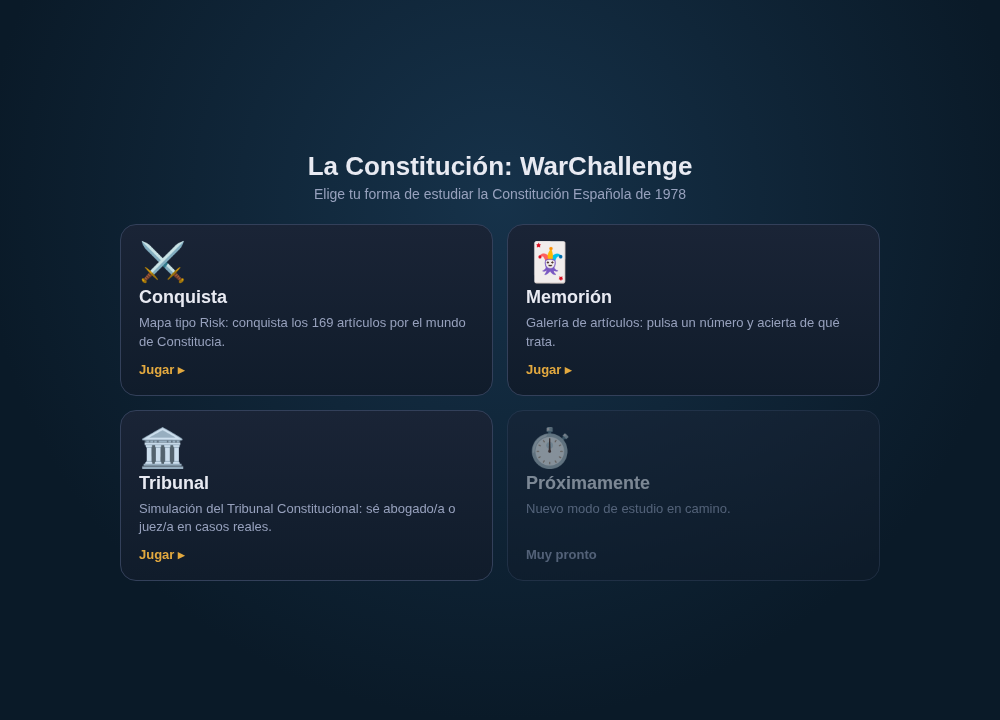
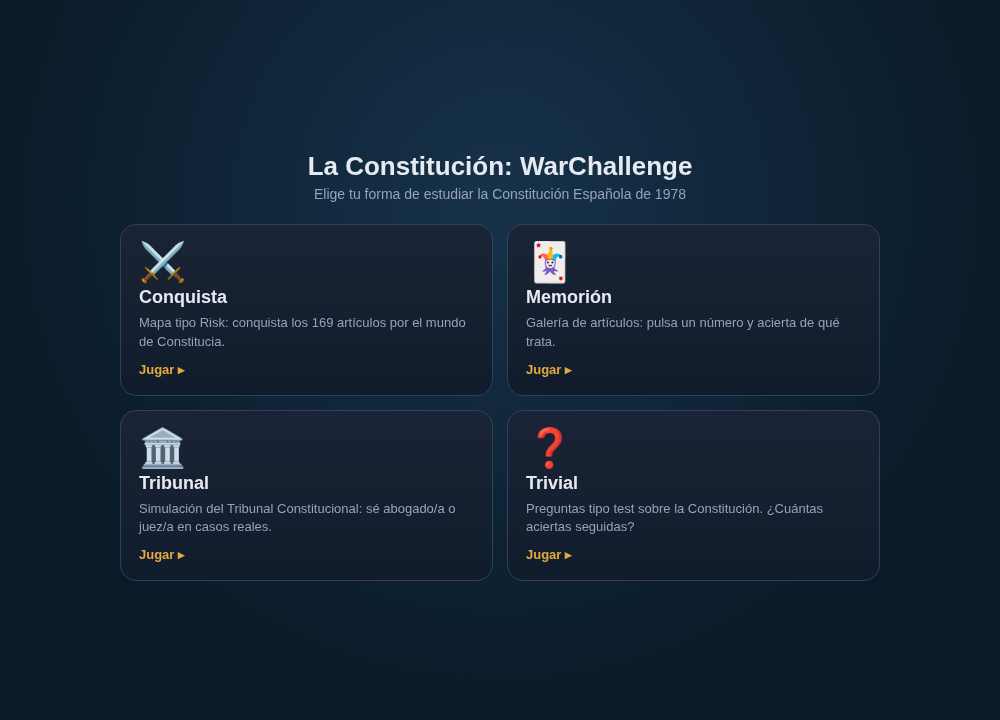
feat: 4º juego Trivial, botón de menú en Conquista y recuadros por capítulo en Memorión
- Trivial (juego 4): rondas de 12 preguntas tipo test (las de los 169
  artículos) con puntuación, racha y récord; explicación al responder y los
  aciertos suman a la Preparación. Nuevo js/trivial.js.
- Botón "🎮 Menú de juegos" en la barra de Conquista para volver al menú
  principal (los demás juegos ya tenían "⬅️ Menú").
- Memorión: las cartas se agrupan en recuadros por capítulo (o título si no
  tiene capítulos), con el color del reino y el nombre del capítulo.

Claude-Session: https://claude.ai/code/session_01Gt58LJKr6KSck5GUCjfsLc

Changed region(s): [[0.527, 0.5806, 0.837, 0.7639], [0.527, 0.7639, 0.589, 0.7944]]

diff --git a/js/trivial.js b/js/trivial.js
@@ -1,0 +1,95 @@
+/* =========================================================================
+   Juego 4: "Trivial" de la Constitución.
+   Preguntas tipo test (las de los 169 artículos). Rondas de 12 preguntas al
+   azar; puntúas por acierto y por racha, con explicación al responder.
+   Acertar marca el artículo como estudiado (suma a la "Preparación").
+   Comparte utilidades globales de game.js (S, sfx, toast, confetti, save).
+   ========================================================================= */
+'use strict';
+(function () {
+  const $ = (id) => document.getElementById(id);
+  const sfxSafe = (k) => { try { if (typeof sfx !== 'undefined' && sfx[k]) sfx[k](); } catch { /* */ } };
+  function shuffle(a) { a = a.slice(); for (let i = a.length - 1; i > 0; i--) { const j = Math.floor(Math.random() * (i + 1)); [a[i], a[j]] = [a[j], a[i]]; } return a; }
+  const RONDA = 12;
+  const KEY = 'ce78_trivial_v1';
+  let best = (() => { try { return JSON.parse(localStorage.getItem(KEY)) || { best: 0 }; } catch { return { best: 0 }; } })();
+  function saveBest() { try { localStorage.setItem(KEY, JSON.stringify(best)); } catch { /* */ } }
+
+  let TV = { order: [], i: 0, score: 0, streak: 0, correct: 0, answered: false };
+
+  function markMastered(n) {
+    try { if (typeof S !== 'undefined') { S.stats.mastered = S.stats.mastered || {}; S.stats.mastered[n] = true; if (typeof save === 'function') save(); } } catch { /* */ }
+  }
+  function newRun() {
+    TV.order = shuffle(Array.from({ length: 169 }, (_, k) => k + 1)).slice(0, RONDA);
+    TV.i = 0; TV.score = 0; TV.streak = 0; TV.correct = 0;
+  }
+  function updateHud() {
+    $('trivScore').textContent = `⭐ ${TV.score}${TV.streak >= 2 ? '  🔥×' + TV.streak : ''}`;
+    $('trivProg').textContent = `${Math.min(TV.i + 1, RONDA)}/${RONDA}`;
+  }
+  function renderQ() {
+    const n = TV.order[TV.i]; const a = ARTICLES[n]; TV.answered = false;
+    updateHud();
+    const order = shuffle(a.o.map((_, k) => k));
+    $('trivStage').innerHTML = `
+      <div class="trib-case">
+        <div class="tc-arts"><span class="tc-art">Pregunta ${TV.i + 1}</span></div>
+        <div class="tc-q">${a.q}</div>
+        <div class="tc-options" id="tvOptions"></div>
+        <div class="tc-feedback" id="tvFeedback" hidden></div>
+      </div>`;
+    const box = $('tvOptions');
+    order.forEach((oi) => {
+      const b = document.createElement('button'); b.className = 'tc-opt'; b.textContent = a.o[oi]; b.dataset.oi = oi;
+      b.addEventListener('click', () => answer(oi, n, a, box));
+      box.appendChild(b);
+    });
+  }
+  function answer(oi, n, a, box) {
+    if (TV.answered) return; TV.answered = true;
+    const correct = oi === a.c;
+    [...box.children].forEach((ch) => {
+      ch.disabled = true;
+      if (+ch.dataset.oi === a.c) ch.classList.add('ok');
+      else if (+ch.dataset.oi === oi) ch.classList.add('bad');
+    });
+    if (correct) {
+      TV.correct++; TV.streak++; TV.score += 10 + Math.min(TV.streak - 1, 5) * 2;
+      sfxSafe('correct'); markMastered(n);
+    } else { TV.streak = 0; sfxSafe('wrong'); }
+    updateHud();
+    const fb = $('tvFeedback'); fb.hidden = false; fb.className = 'tc-feedback ' + (correct ? 'ok' : 'bad');
+    fb.innerHTML = `
+      <div class="fb-verdict">${correct ? '✅ ¡Correcto!' : '❌ Incorrecto'} <span class="fb-ref">Art. ${n} · ${a.t}</span></div>
+      <div class="fb-why">${a.e}</div>
+      <button id="tvNext" class="primary-btn">${TV.i >= RONDA - 1 ? 'Ver resultado 🏆' : 'Siguiente ➜'}</button>`;
+    $('tvNext').addEventListener('click', () => { if (TV.i >= RONDA - 1) summary(); else { TV.i++; renderQ(); } });
+    $('tvNext').focus();
+  }
+  function summary() {
+    const record = TV.score > best.best;
+    if (record) { best.best = TV.score; saveBest(); }
+    const rank = TV.correct >= 11 ? '🏆 Constitucionalista' : TV.correct >= 8 ? '🎖️ Buen/a jurista' : TV.correct >= 5 ? '📚 Aprobado/a' : '🌱 A seguir estudiando';
+    $('trivStage').innerHTML = `
+      <div class="trib-case trib-summary">
+        <div class="ts-emoji">❓</div>
+        <h2>${rank}</h2>
+        <p class="ts-score">Has acertado <b>${TV.correct}</b> de <b>${RONDA}</b> · <b>${TV.score}</b> puntos${record ? ' 🎉 ¡Récord!' : ` · récord: ${best.best}`}</p>
+        <div class="ts-actions">
+          <button id="tvAgain" class="primary-btn">Otra ronda ❓</button>
+          <button id="tvToMenu" class="secondary-btn">Volver al menú</button>
+        </div>
+      </div>`;
+    if (TV.correct >= 11) { try { if (typeof confetti === 'function') confetti(); } catch { /* */ } }
+    $('tvAgain').addEventListener('click', () => { newRun(); renderQ(); });
+    $('tvToMenu').addEventListener('click', backToMenu);
+  }
+  function backToMenu() { $('trivial').hidden = true; $('gameMenu').hidden = false; sfxSafe('click'); }
+
+  function startTrivial() { $('gameMenu').hidden = true; newRun(); renderQ(); $('trivial').hidden = false; }
+  window.startTrivial = startTrivial;
+
+  const back = $('trivBack');
+  if (back) back.addEventListener('click', backToMenu);
+})();

diff --git a/js/juegos.js b/js/juegos.js
@@ -71,17 +71,31 @@
   function buildMemGrid() {
     const grid = $('memGrid'); const matched = run().matched;
     grid.innerHTML = '';
-    for (let n = 1; n <= 169; n++) {
-      const done = !!matched[n];
-      const card = document.createElement('button');
-      card.className = 'mem-card' + (done ? ' done' : '');
-      card.style.setProperty('--tc', colorOf(n));
-      card.innerHTML = done
-        ? `<span class="mc-emoji">${emojiOf(n)}</span><span class="mc-n">${n}</span>`
-        : `<span class="mc-n big">${n}</span>`;
-      card.addEventListener('click', () => openQuiz(n));
-      grid.appendChild(card);
-    }
+    // agrupado por capítulo: cada capítulo (o título sin capítulos) va en su recuadro
+    TITULOS.forEach((t) => {
+      const multi = t.islands.length > 1;
+      t.islands.forEach((is) => {
+        const arts = (MAP.islands[is.id] && MAP.islands[is.id].arts) || [];
+        if (!arts.length) return;
+        const box = document.createElement('div'); box.className = 'mem-chapter'; box.style.setProperty('--tc', t.color);
+        const label = multi ? is.name : ((t.roman ? 'Título ' + t.roman + ' · ' : '') + t.name);
+        const head = document.createElement('div'); head.className = 'mem-ch-head';
+        head.innerHTML = `<span class="mem-ch-emblem">${MAP.titulos[t.id].emblem || ''}</span><span>${label}</span>`;
+        const cards = document.createElement('div'); cards.className = 'mem-ch-cards';
+        arts.forEach((n) => {
+          const done = !!matched[n];
+          const card = document.createElement('button');
+          card.className = 'mem-card' + (done ? ' done' : '');
+          card.style.setProperty('--tc', colorOf(n));
+          card.innerHTML = done
+            ? `<span class="mc-emoji">${emojiOf(n)}</span><span class="mc-n">${n}</span>`
+            : `<span class="mc-n big">${n}</span>`;
+          card.addEventListener('click', () => openQuiz(n));
+          cards.appendChild(card);
+        });
+        box.appendChild(head); box.appendChild(cards); grid.appendChild(box);
+      });
+    });
     $('memProg').textContent = `${Object.keys(matched).length}/169`;
     updateLives();
   }
@@ -149,12 +163,17 @@
   function startMemoria() { hideMenu(); mem = loadMem(); renderDiffBar(); buildMemGrid(); $('memoria').hidden = false; }
 
   /* ── cableado ── */
+  function hideAllScreens() { ['memoria', 'tribunal', 'trivial'].forEach((id) => { const el = $(id); if (el) el.hidden = true; }); }
   menu.querySelectorAll('.game-card[data-game]').forEach((b) => b.addEventListener('click', () => {
-    const g = b.dataset.game; sfxSafe('click');
+    const g = b.dataset.game; sfxSafe('click'); hideAllScreens();
     if (g === 'risk') startRisk();
     else if (g === 'memoria') startMemoria();
-    else if (g === 'tribunal' && typeof startTribunal === 'function') { $('memoria').hidden = true; startTribunal(); }
+    else if (g === 'tribunal' && typeof startTribunal === 'function') startTribunal();
+    else if (g === 'trivial' && typeof startTrivial === 'function') startTrivial();
   }));
+  // botón "Menú de juegos" desde la partida de Conquista
+  const btnMenu = $('btnMenu');
+  if (btnMenu) btnMenu.addEventListener('click', () => { hideAllScreens(); showMenu(); sfxSafe('click'); });
   $('memBack').addEventListener('click', () => { $('memoria').hidden = true; showMenu(); sfxSafe('click'); });
   const mqClose = $('memQuiz').querySelector('.card-close');
   if (mqClose) mqClose.addEventListener('click', () => { $('memQuiz').hidden = true; });

diff --git a/index.html b/index.html
@@ -36,11 +36,11 @@
         <span class="gc-desc">Simulación del Tribunal Constitucional: sé abogado/a o juez/a en casos reales.</span>
         <span class="gc-go">Jugar ▸</span>
       </button>
-      <button class="game-card soon" disabled>
-        <span class="gc-emoji">⏱️</span>
-        <span class="gc-name">Próximamente</span>
-        <span class="gc-desc">Nuevo modo de estudio en camino.</span>
-        <span class="gc-go">Muy pronto</span>
+      <button class="game-card" data-game="trivial">
+        <span class="gc-emoji">❓</span>
+        <span class="gc-name">Trivial</span>
+        <span class="gc-desc">Preguntas tipo test sobre la Constitución. ¿Cuántas aciertas seguidas?</span>
+        <span class="gc-go">Jugar ▸</span>
       </button>
     </div>
   </div>
@@ -80,6 +80,17 @@
   <div id="tribStage" class="trib-stage"></div>
 </div>
 
+<!-- Juego 4: Trivial -->
+<div id="trivial" class="game-screen" hidden>
+  <header class="mem-top">
+    <button id="trivBack" class="mem-back" title="Volver al menú">⬅️ Menú</button>
+    <div class="mem-heading">❓ Trivial</div>
+    <div class="trib-role" id="trivScore"></div>
+    <div class="mem-prog"><span id="trivProg">1/12</span></div>
+  </header>
+  <div id="trivStage" class="trib-stage"></div>
+</div>
+
 <header id="topbar">
   <div class="brand">
     <span class="brand-flag"></span>
@@ -98,6 +109,7 @@
     </div>
   </div>
   <div class="topbar-actions">
+    <button id="btnMenu" class="icon-btn" title="Menú de juegos">🎮</button>
     <button id="btnIndex" class="icon-btn" title="Índice de la Constitución">🗂️</button>
     <button id="btnAch" class="icon-btn" title="Logros">🏆</button>
     <button id="btnStats" class="icon-btn" title="Estadísticas">📊</button>
@@ -279,6 +291,7 @@
 <script src="js/etiquetas.js"></script>
 <script src="js/game.js"></script>
 <script src="js/tribunal.js"></script>
+<script src="js/trivial.js"></script>
 <script src="js/juegos.js"></script>
 </body>
 </html>

diff --git a/css/game.css b/css/game.css
@@ -365,7 +365,12 @@ body {
 .mem-diff.sel { border-color: var(--gold); box-shadow: 0 0 0 1px var(--gold) inset; }
 .mem-intro { color: var(--muted); font-size: 13px; padding: 10px 16px 4px; max-width: 900px; margin: 0 auto; }
 .mq-options { max-height: 52vh; overflow-y: auto; padding-right: 2px; }
-.mem-grid { display: grid; grid-template-columns: repeat(auto-fill, minmax(60px, 1fr)); gap: 8px; padding: 12px 16px 48px; max-width: 940px; margin: 0 auto; }
+.mem-grid { display: grid; grid-template-columns: repeat(auto-fill, minmax(250px, 1fr)); gap: 12px; padding: 12px 16px 48px; max-width: 1000px; margin: 0 auto; align-items: start; }
+.mem-chapter { border: 2px solid var(--tc); border-radius: 12px; padding: 8px 9px 10px; background: rgba(255,255,255,.025); }
+.mem-ch-head { display: flex; align-items: center; gap: 6px; font-size: 11.5px; font-weight: 800; color: #fff; opacity: .92; margin-bottom: 7px; }
+.mem-ch-emblem { font-size: 15px; flex: none; }
+.mem-ch-head span:last-child { overflow: hidden; text-overflow: ellipsis; white-space: nowrap; }
+.mem-ch-cards { display: grid; grid-template-columns: repeat(auto-fill, minmax(44px, 1fr)); gap: 6px; }
 .mem-card { aspect-ratio: 3 / 4; border-radius: 10px; cursor: pointer; color: #fff; font-family: inherit;
   border: 2px solid var(--tc); background: rgba(255,255,255,.04); box-shadow: inset 0 0 0 1px rgba(0,0,0,.35);
   display: flex; flex-direction: column; align-items: center; justify-content: center; gap: 2px; transition: transform .1s; }
@@ -420,6 +425,7 @@ body {
 .tc-feedback.ok { background: rgba(63,191,111,.12); border-color: #2f7f52; }
 .tc-feedback.bad { background: rgba(224,82,82,.12); border-color: #7a3030; }
 .fb-verdict { font-weight: 800; margin-bottom: 6px; }
+.fb-verdict .fb-ref { font-size: 12px; color: var(--muted); font-weight: 600; margin-left: 6px; }
 .fb-why { font-size: 13px; color: var(--muted); line-height: 1.5; }
 .fb-correct { font-size: 13px; margin-top: 10px; padding-top: 10px; border-top: 1px dashed var(--line); line-height: 1.5; }
 .tc-feedback .primary-btn { margin-top: 14px; }
@@ -478,6 +484,7 @@ body {
   .game-card .gc-name { font-size: 16px; }
   .game-card .gc-desc { flex-basis: 100%; }
   .menu-brand h1 { font-size: 21px; }
-  .mem-grid { grid-template-columns: repeat(auto-fill, minmax(50px, 1fr)); gap: 6px; padding: 10px 12px 40px; }
+  .mem-grid { grid-template-columns: 1fr; gap: 10px; padding: 10px 12px 40px; }
+  .mem-ch-cards { grid-template-columns: repeat(auto-fill, minmax(42px, 1fr)); }
   .mem-card .mc-n.big { font-size: 17px; }
 }

diff --git a/scripts/build.js b/scripts/build.js
@@ -15,7 +15,7 @@ const read = (rel) => fs.readFileSync(path.join(ROOT, rel), 'utf8');
 
 let html = read('index.html');
 const css = read('css/game.css');
-const js = ['js/map-data.js', 'js/hierarchy.js', 'js/data.js', 'js/voz.js', 'js/etiquetas.js', 'js/game.js', 'js/tribunal.js', 'js/juegos.js'].map(read).join('\n\n');
+const js = ['js/map-data.js', 'js/hierarchy.js', 'js/data.js', 'js/voz.js', 'js/etiquetas.js', 'js/game.js', 'js/tribunal.js', 'js/trivial.js', 'js/juegos.js'].map(read).join('\n\n');
 
 // Sustituir la hoja de estilos externa por un bloque <style> en línea
 html = html.replace(/<link[^>]+game\.css[^>]*>/, `<style>\n${css}\n</style>`);

diff --git a/CHANGELOG.md b/CHANGELOG.md
@@ -4,6 +4,19 @@ Todas las versiones relevantes del proyecto se anotan aquí.
 El formato sigue [Keep a Changelog](https://keepachangelog.com/es-ES/)
 y el proyecto usa [versionado semántico](https://semver.org/lang/es/) (MAYOR.MENOR.PARCHE).
 
+## [2.7.0] — 2026-07-10
+
+### Añadido
+- **Cuarto juego: Trivial** — preguntas tipo test sobre la Constitución (las de
+  los 169 artículos), en rondas de 12 al azar, con puntuación, racha y récord;
+  explicación al responder y los aciertos suman a la "Preparación".
+- **Botón de menú de juegos** en todas las pantallas: la partida de Conquista
+  tiene ahora un botón 🎮 para volver al menú principal (Memorión, Tribunal y
+  Trivial ya tenían "⬅️ Menú").
+- **Memorión**: los artículos se **agrupan en recuadros por capítulo** (o por
+  título si no tiene capítulos), con el color del reino y el nombre del capítulo,
+  para ver de un vistazo qué artículos pertenecen al mismo capítulo.
+
 ## [2.6.1] — 2026-07-10
 
 ### Arreglado / mejorado

diff --git a/README.md b/README.md
@@ -34,7 +34,8 @@ Al abrir la app eliges entre varios modos de estudiar la Constitución:
   aciertas de qué trata eligiendo de una lista breve (con niveles de dificultad).
 - 🏛️ **Tribunal** — simulación del Tribunal Constitucional: sé abogado/a o
   juez/a en casos reales anclados a artículos concretos.
-- 🔜 Un modo más en camino.
+- ❓ **Trivial** — preguntas tipo test sobre la Constitución, en rondas con
+  puntuación, racha y récord.
 
 ## ¿Qué es esto?
 